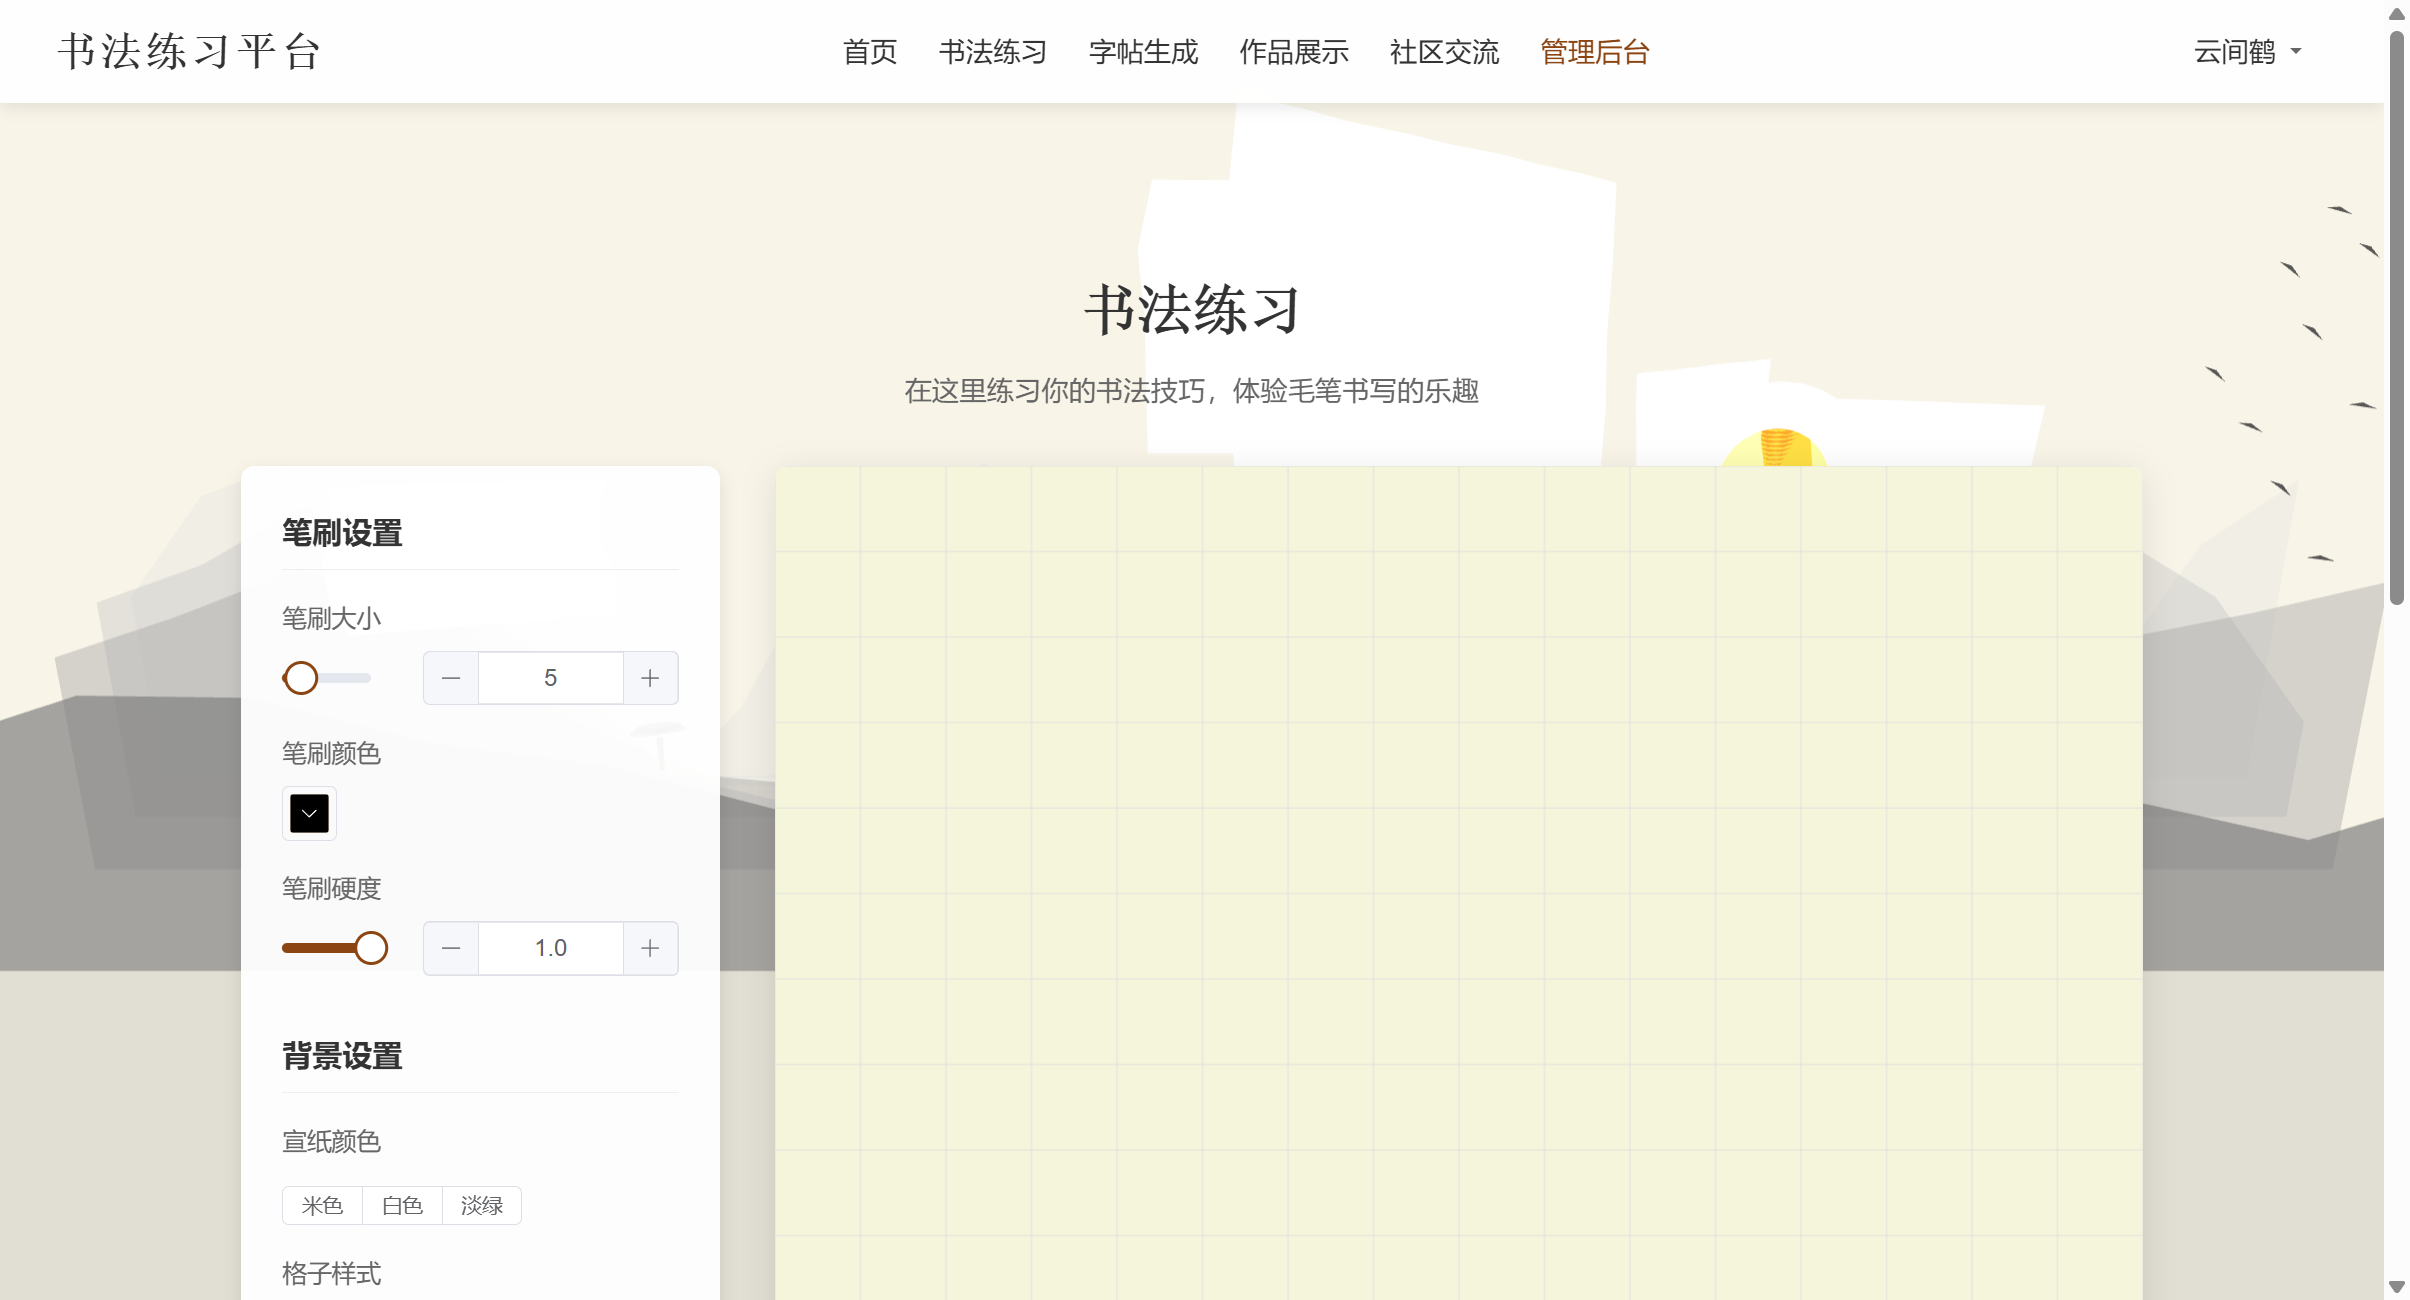
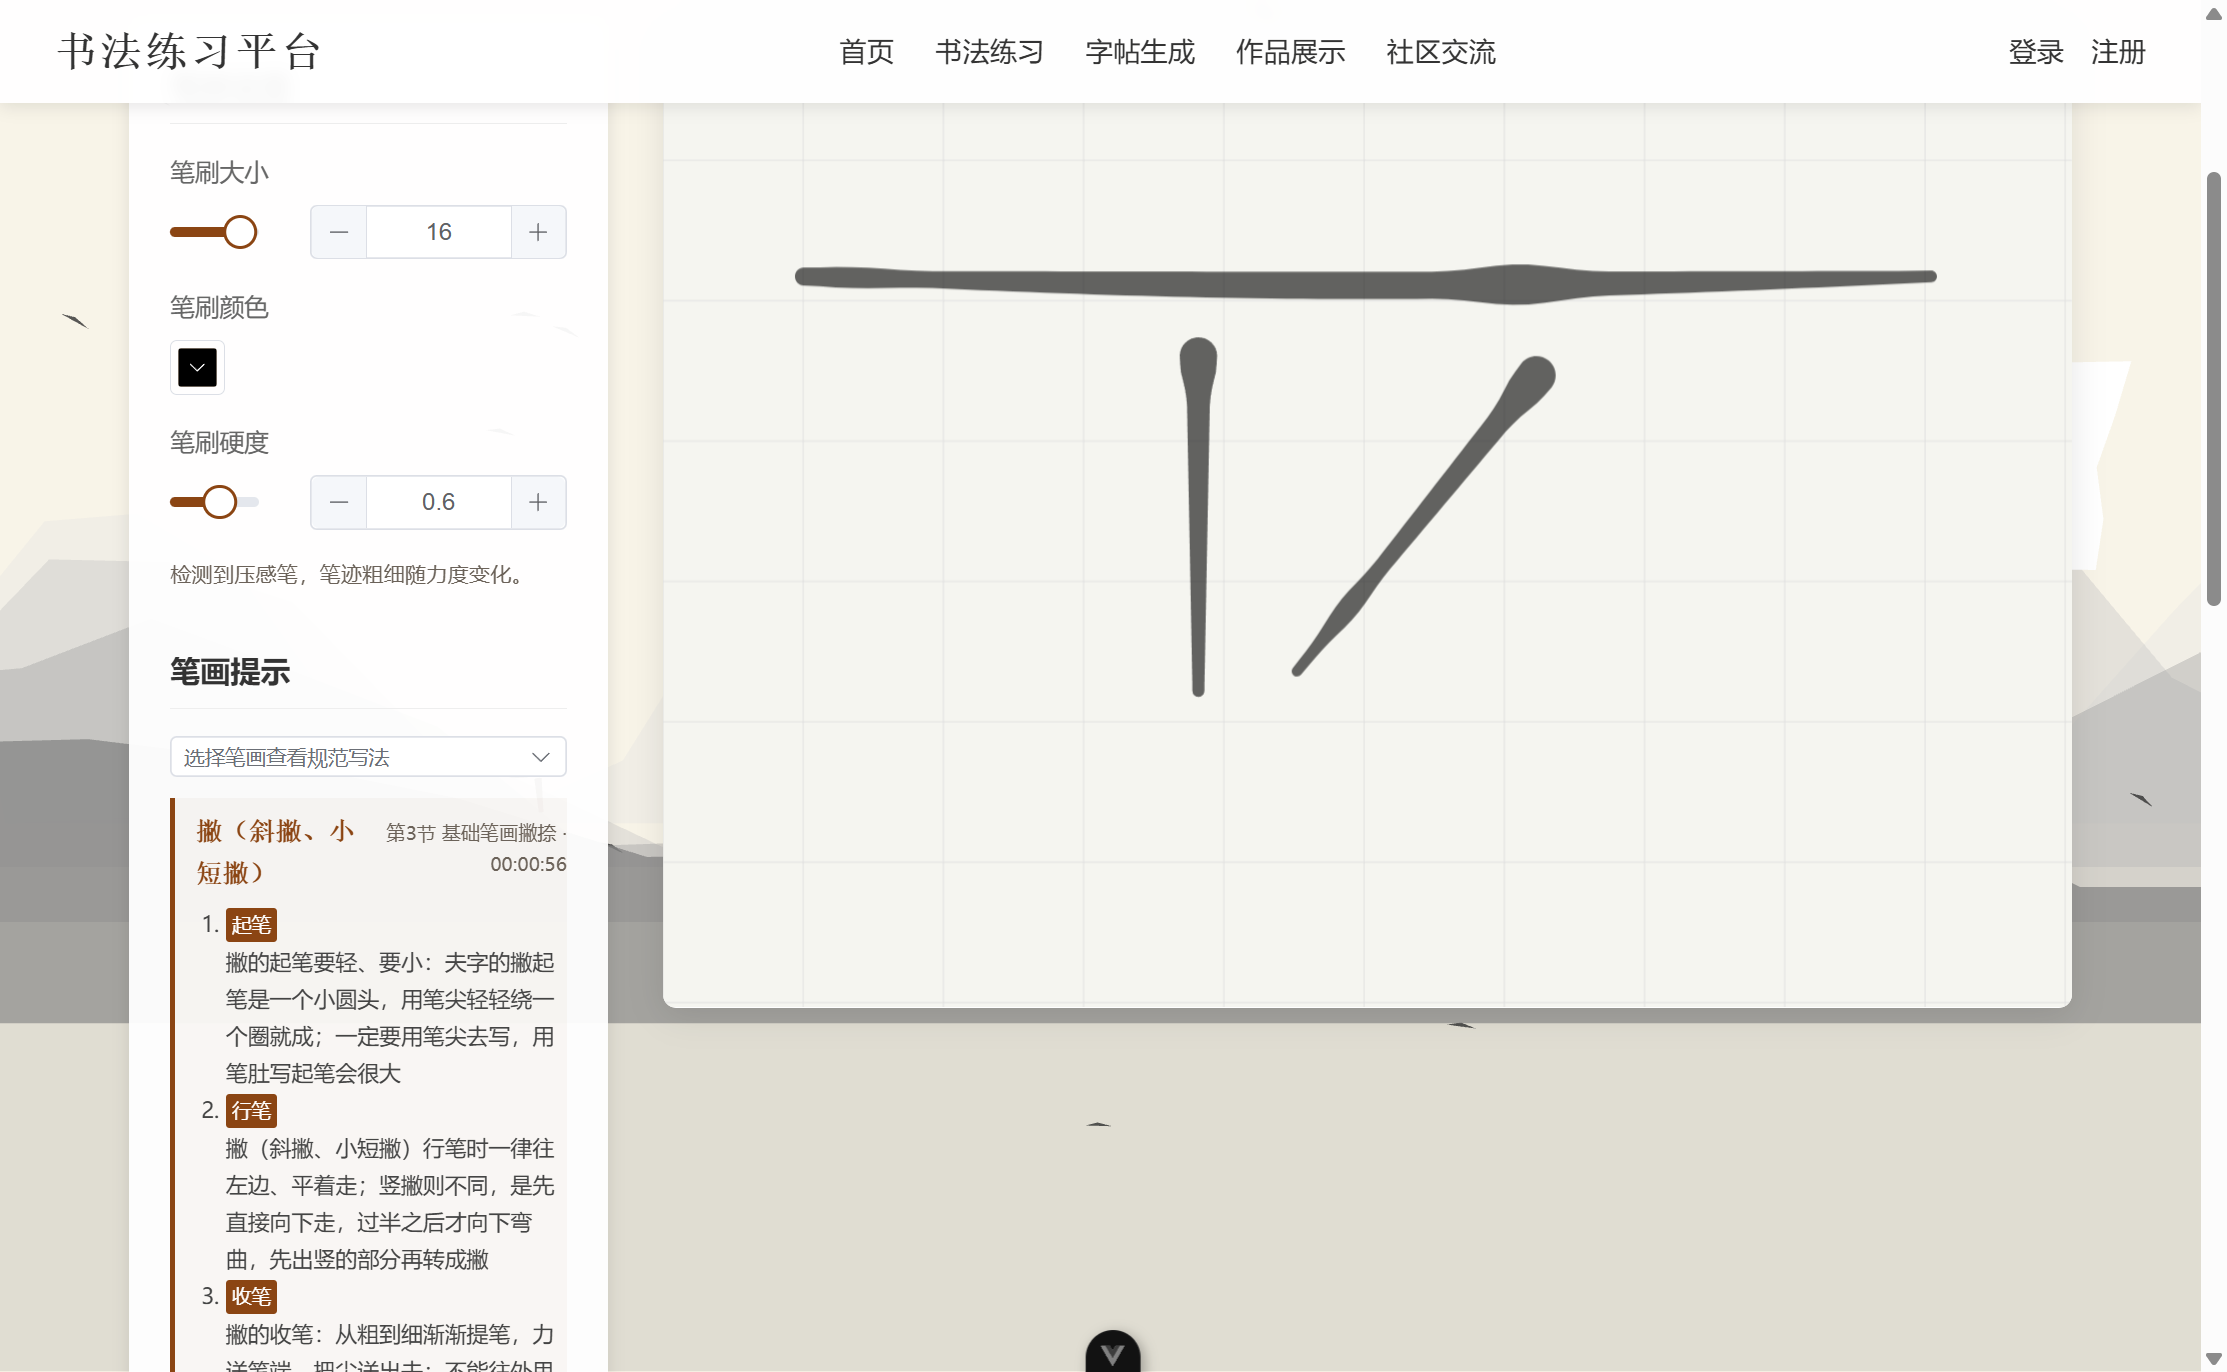
docs: 练习页说明改为事实描述，截图换成当前界面
毛笔练习一条改为实情：笔压真实改变笔迹粗细、手掌搭屏不误画、撤销以一笔为单位、
草稿切后台不丢、写完一笔给出该笔画的写法与顿点位置。
另补一条工程特点：86 项前端测试（笔输入层的纯函数逐个用例锁住行为）。

截图重拍：真实笔迹的提按粗细变化与笔画提示面板。

diff --git a/README.md b/README.md
@@ -22,7 +22,7 @@
 
 ## ✨ 功能特性
 
-**🖌 毛笔练习** — 基于 fabric.js 的手写画布，笔刷大小 / 颜色 / 硬度可调，笔画带真实的提按粗细变化；宣纸底色配方格 / 田字格 / 横线三种格线，写完可存为作品。
+**🖌 毛笔练习** — 自研笔输入层：压感笔的**笔压真实改变笔迹粗细**（鼠标按运笔速度映射粗细，按住 Shift 可加粗），**手掌搭在屏上不会误画**；画布随屏幕尺寸与像素密度自适应，宣纸底色配方格 / 田字格 / 横线三种格线。撤销以「一笔」为单位，切后台或刷新回来笔迹还在；**写完一笔即给出该笔画的起笔、行笔、收笔写法与顿点位置**。
 
 **📄 字帖生成** — 输入任意文字，选字体、布局、字号与纸张配色，实时生成方格 / 横线 / 空白三种版式，可翻页预览与下载 PNG；生成结果**同时存进账号**，换设备登录也能在「我的字帖」里找到。
 
@@ -74,6 +74,8 @@
 **明确的权限边界** — 作品、评论、字帖的读写都校验归属；JWT 令牌声明的 `userType` 与访问的路径族必须一致（前端登录的令牌进不了管理端接口）；他人的登录 IP、失败次数、锁定时间只对本人与管理员可见。
 
 **229 项后端测试** — 覆盖端点的状态码与响应字段，测试跑在独立的 `calligraphy_practice_test` 库上，不碰开发数据。
+
+**86 项前端测试** — 笔输入层的宽度曲线、笔画几何、手掌状态机、笔画栈、草稿存储、笔画走向判别都是纯函数，逐个用例锁住行为（`npm test`）。
 
 **按需加载的前端** — Element Plus 逐组件按需引入，首屏 JS gzip 后约 193 kB、CSS 约 8 kB（gzip）。
 
